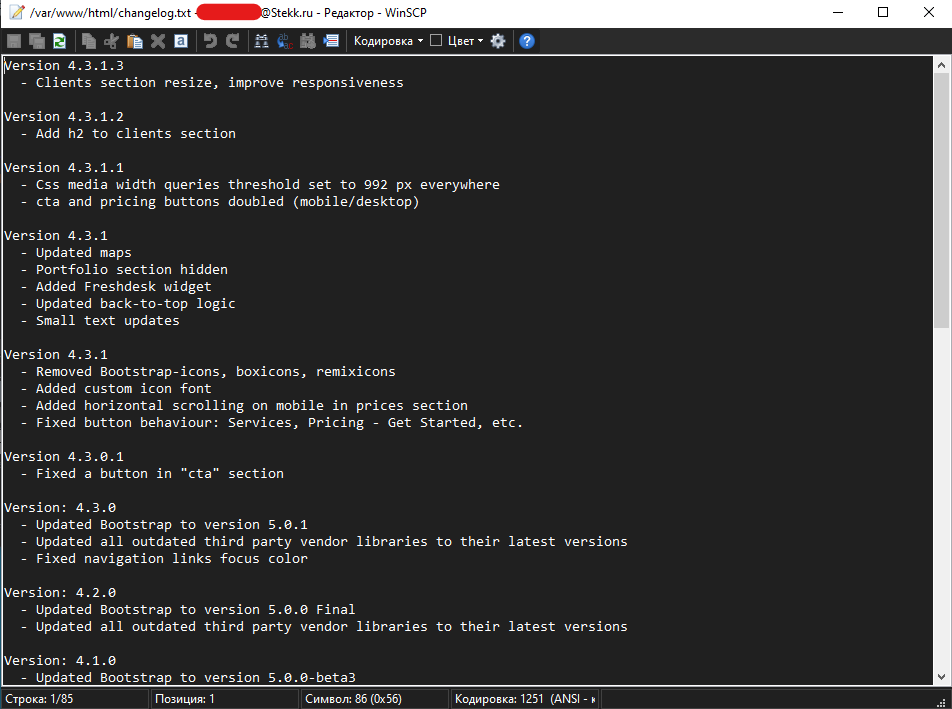
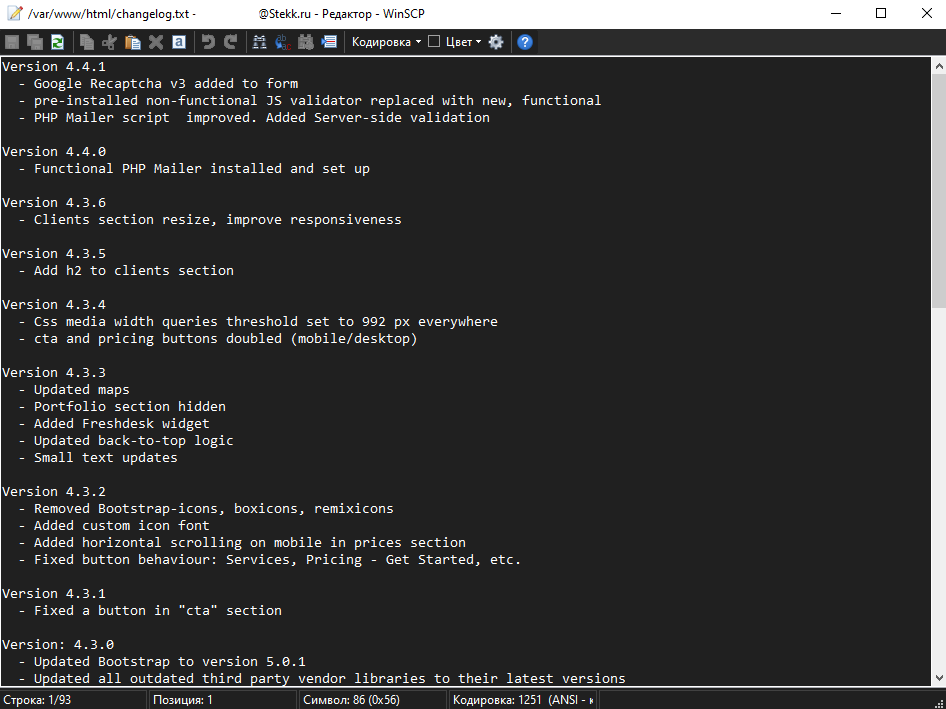
feat: added recent experience

Changed region(s): [[0.0, 0.0, 1.0, 1.0], [0.9197, 0.0, 0.981, 0.031]]

diff --git a/index.html b/index.html
@@ -86,7 +86,9 @@
                             Other things I did:
                             <ul>
                                 <li>Little <a href="https://career404.github.io/click-create-html/" target="_blank">multiplying windows</a> piece</li>
-                                <li>Adding content, responsiveness, changing styles, icons and pictures to a Bootstrap-based website for a startup, also added basic SEO tools: <a href="https://www.stekk.ru" target="_blank">stekk.ru</a></li>
+                                <li>Adding content, responsiveness, changing styles, icons and pictures to a Bootstrap-based website for a startup, also added basic SEO tools: <a href="https://www.stekk.ru" target="_blank">stekk.ru</a>
+                                <p>Update: Adding PHP Mailer with validation on both client- and server-side (with Google Recaptcha v3)
+                                </p></li>
                                 <img src="assets/img/proof.png" alt="changelog">
                                 <li>Fixing, refactoring and improving <a href="https://krang-dataset.website.yandexcloud.net/viewer/">this dataset</a> - with a viewer of hystology scans of human brain. Utilizes Yandex bucket API and leaflet.js library. Dynamically creates pages and elements on certain pages from cloud storage. In progress, working branch at <a href="https://github.com/Assargadon/krang-dataset-viewer">this GitHub</a></li>
                                 <li>An RS School task: <a href="https://rolling-scopes-school.github.io/career404-JSFE2022Q3/online-zoo/pages/main/">online-zoo</a>. Unfinished due to time constraints, but pixel-perfect (matches the provided mockup)</li>
